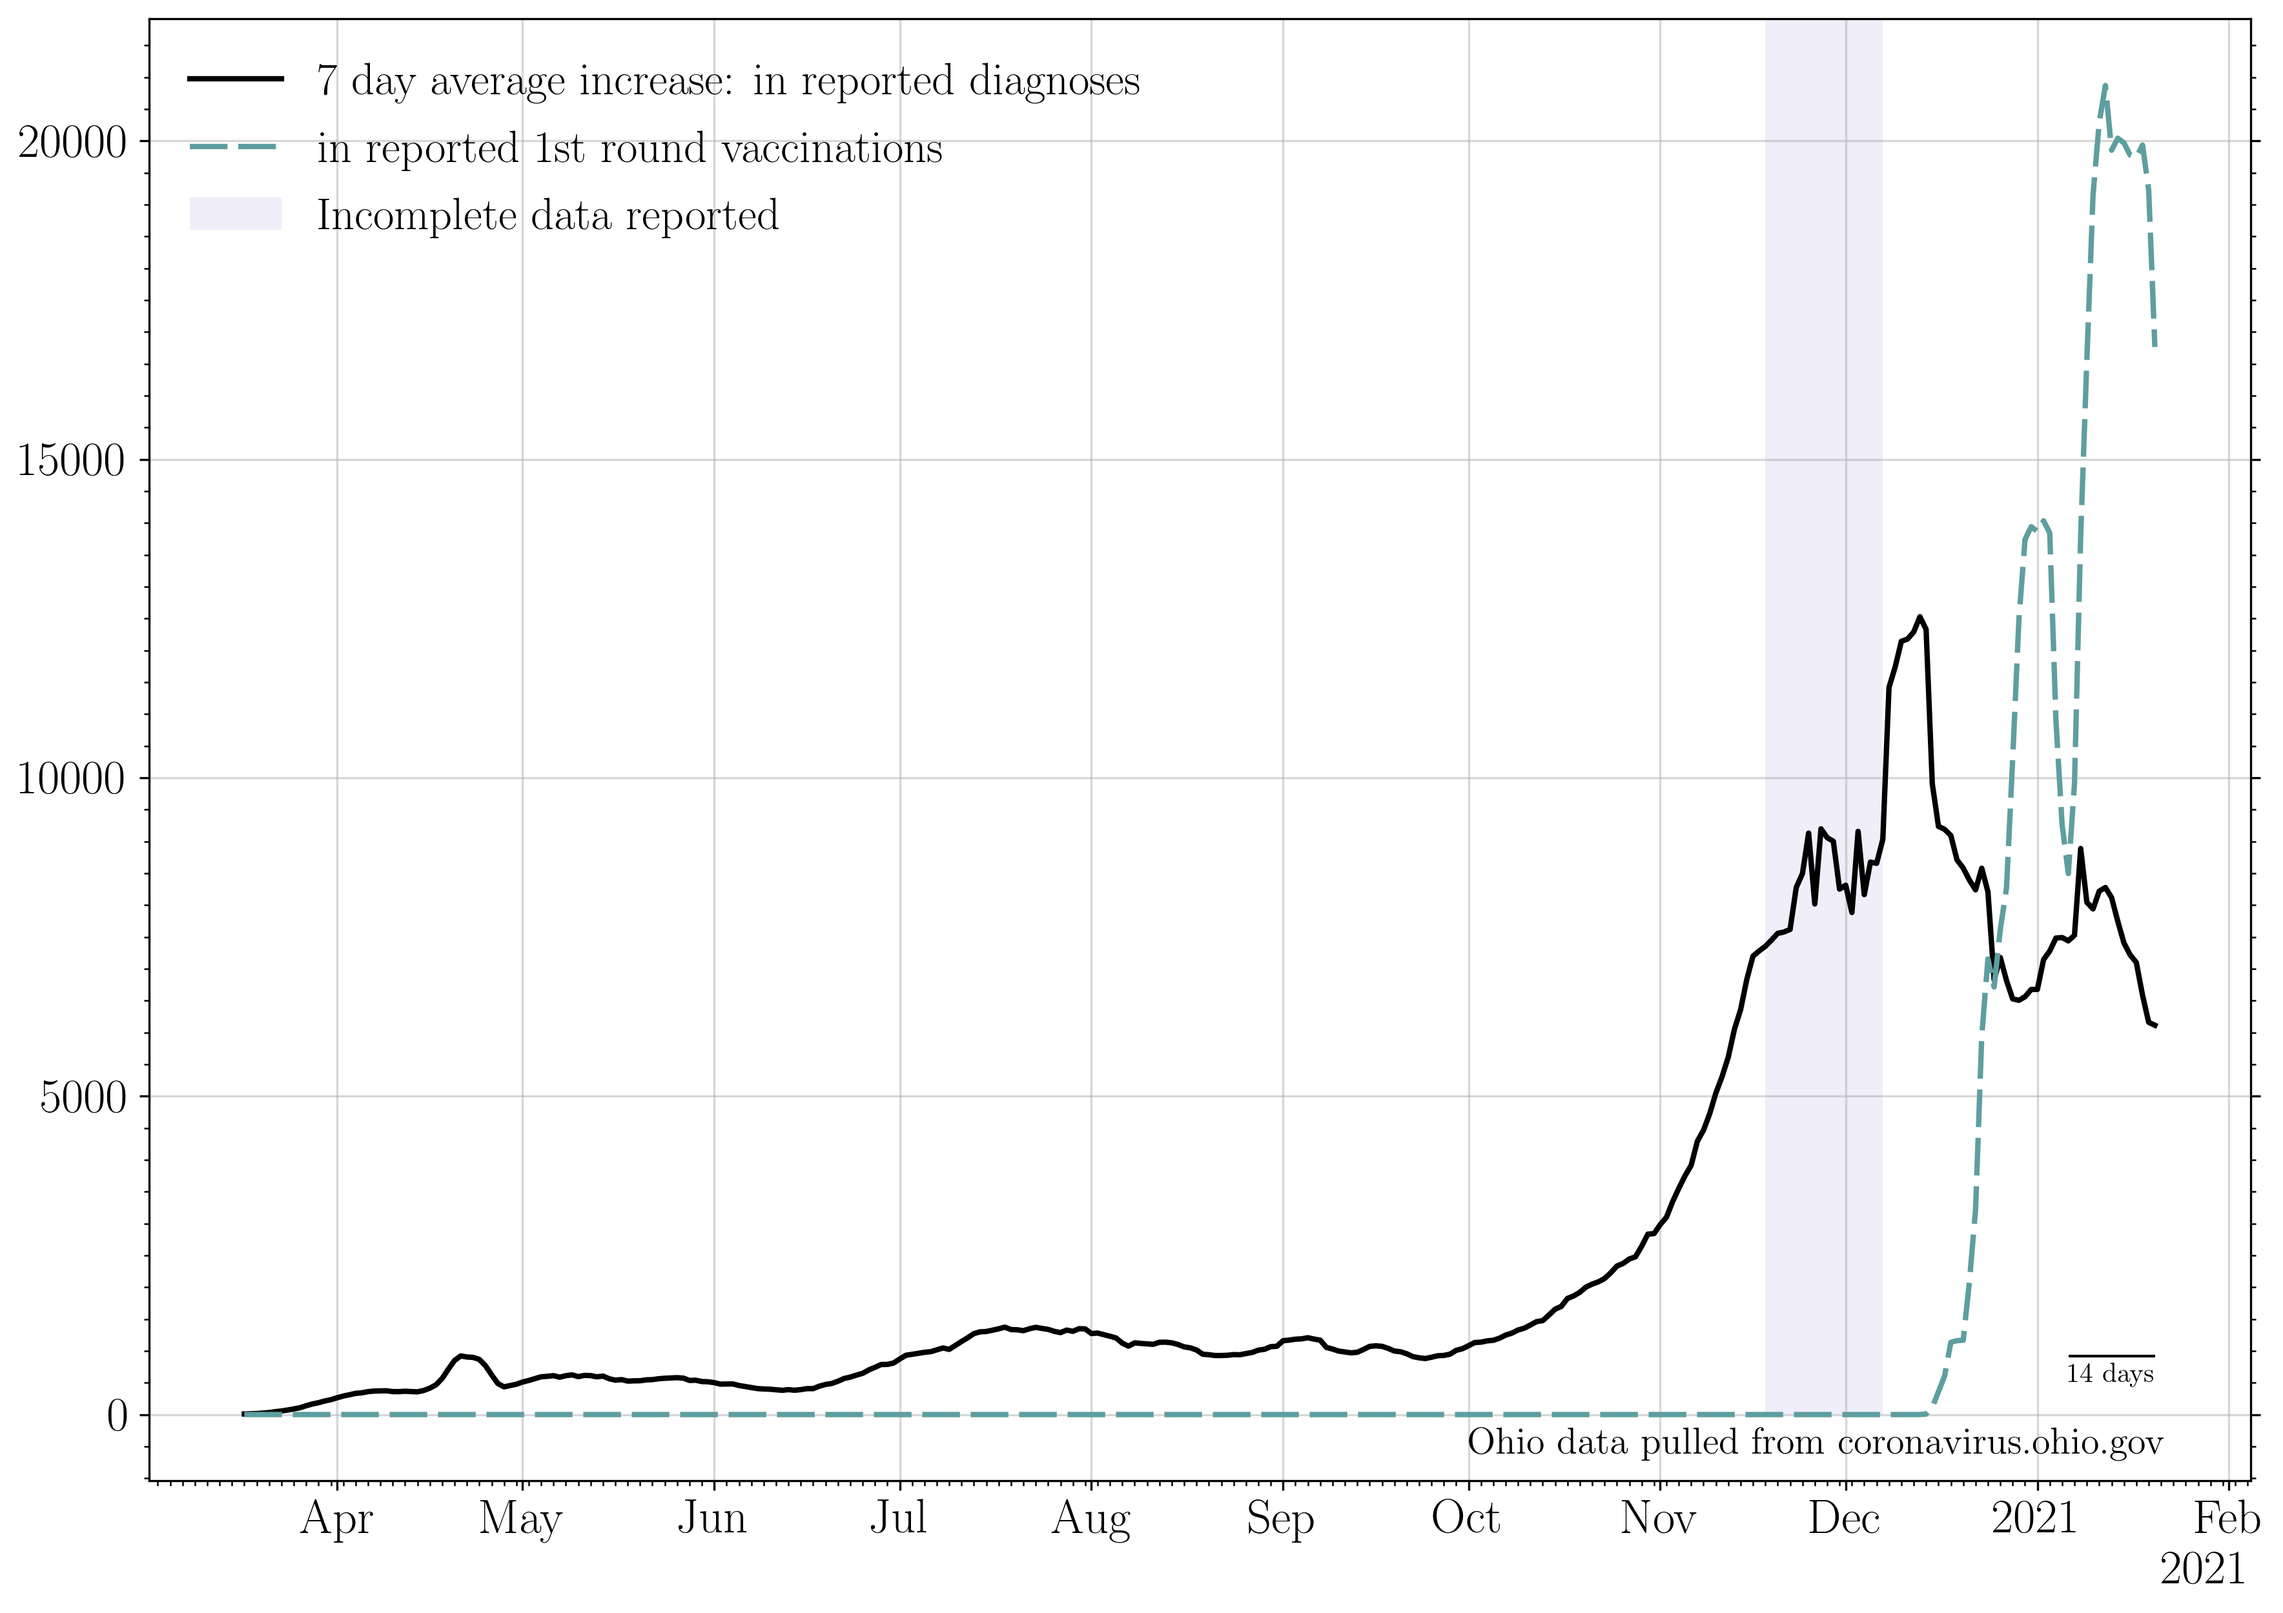
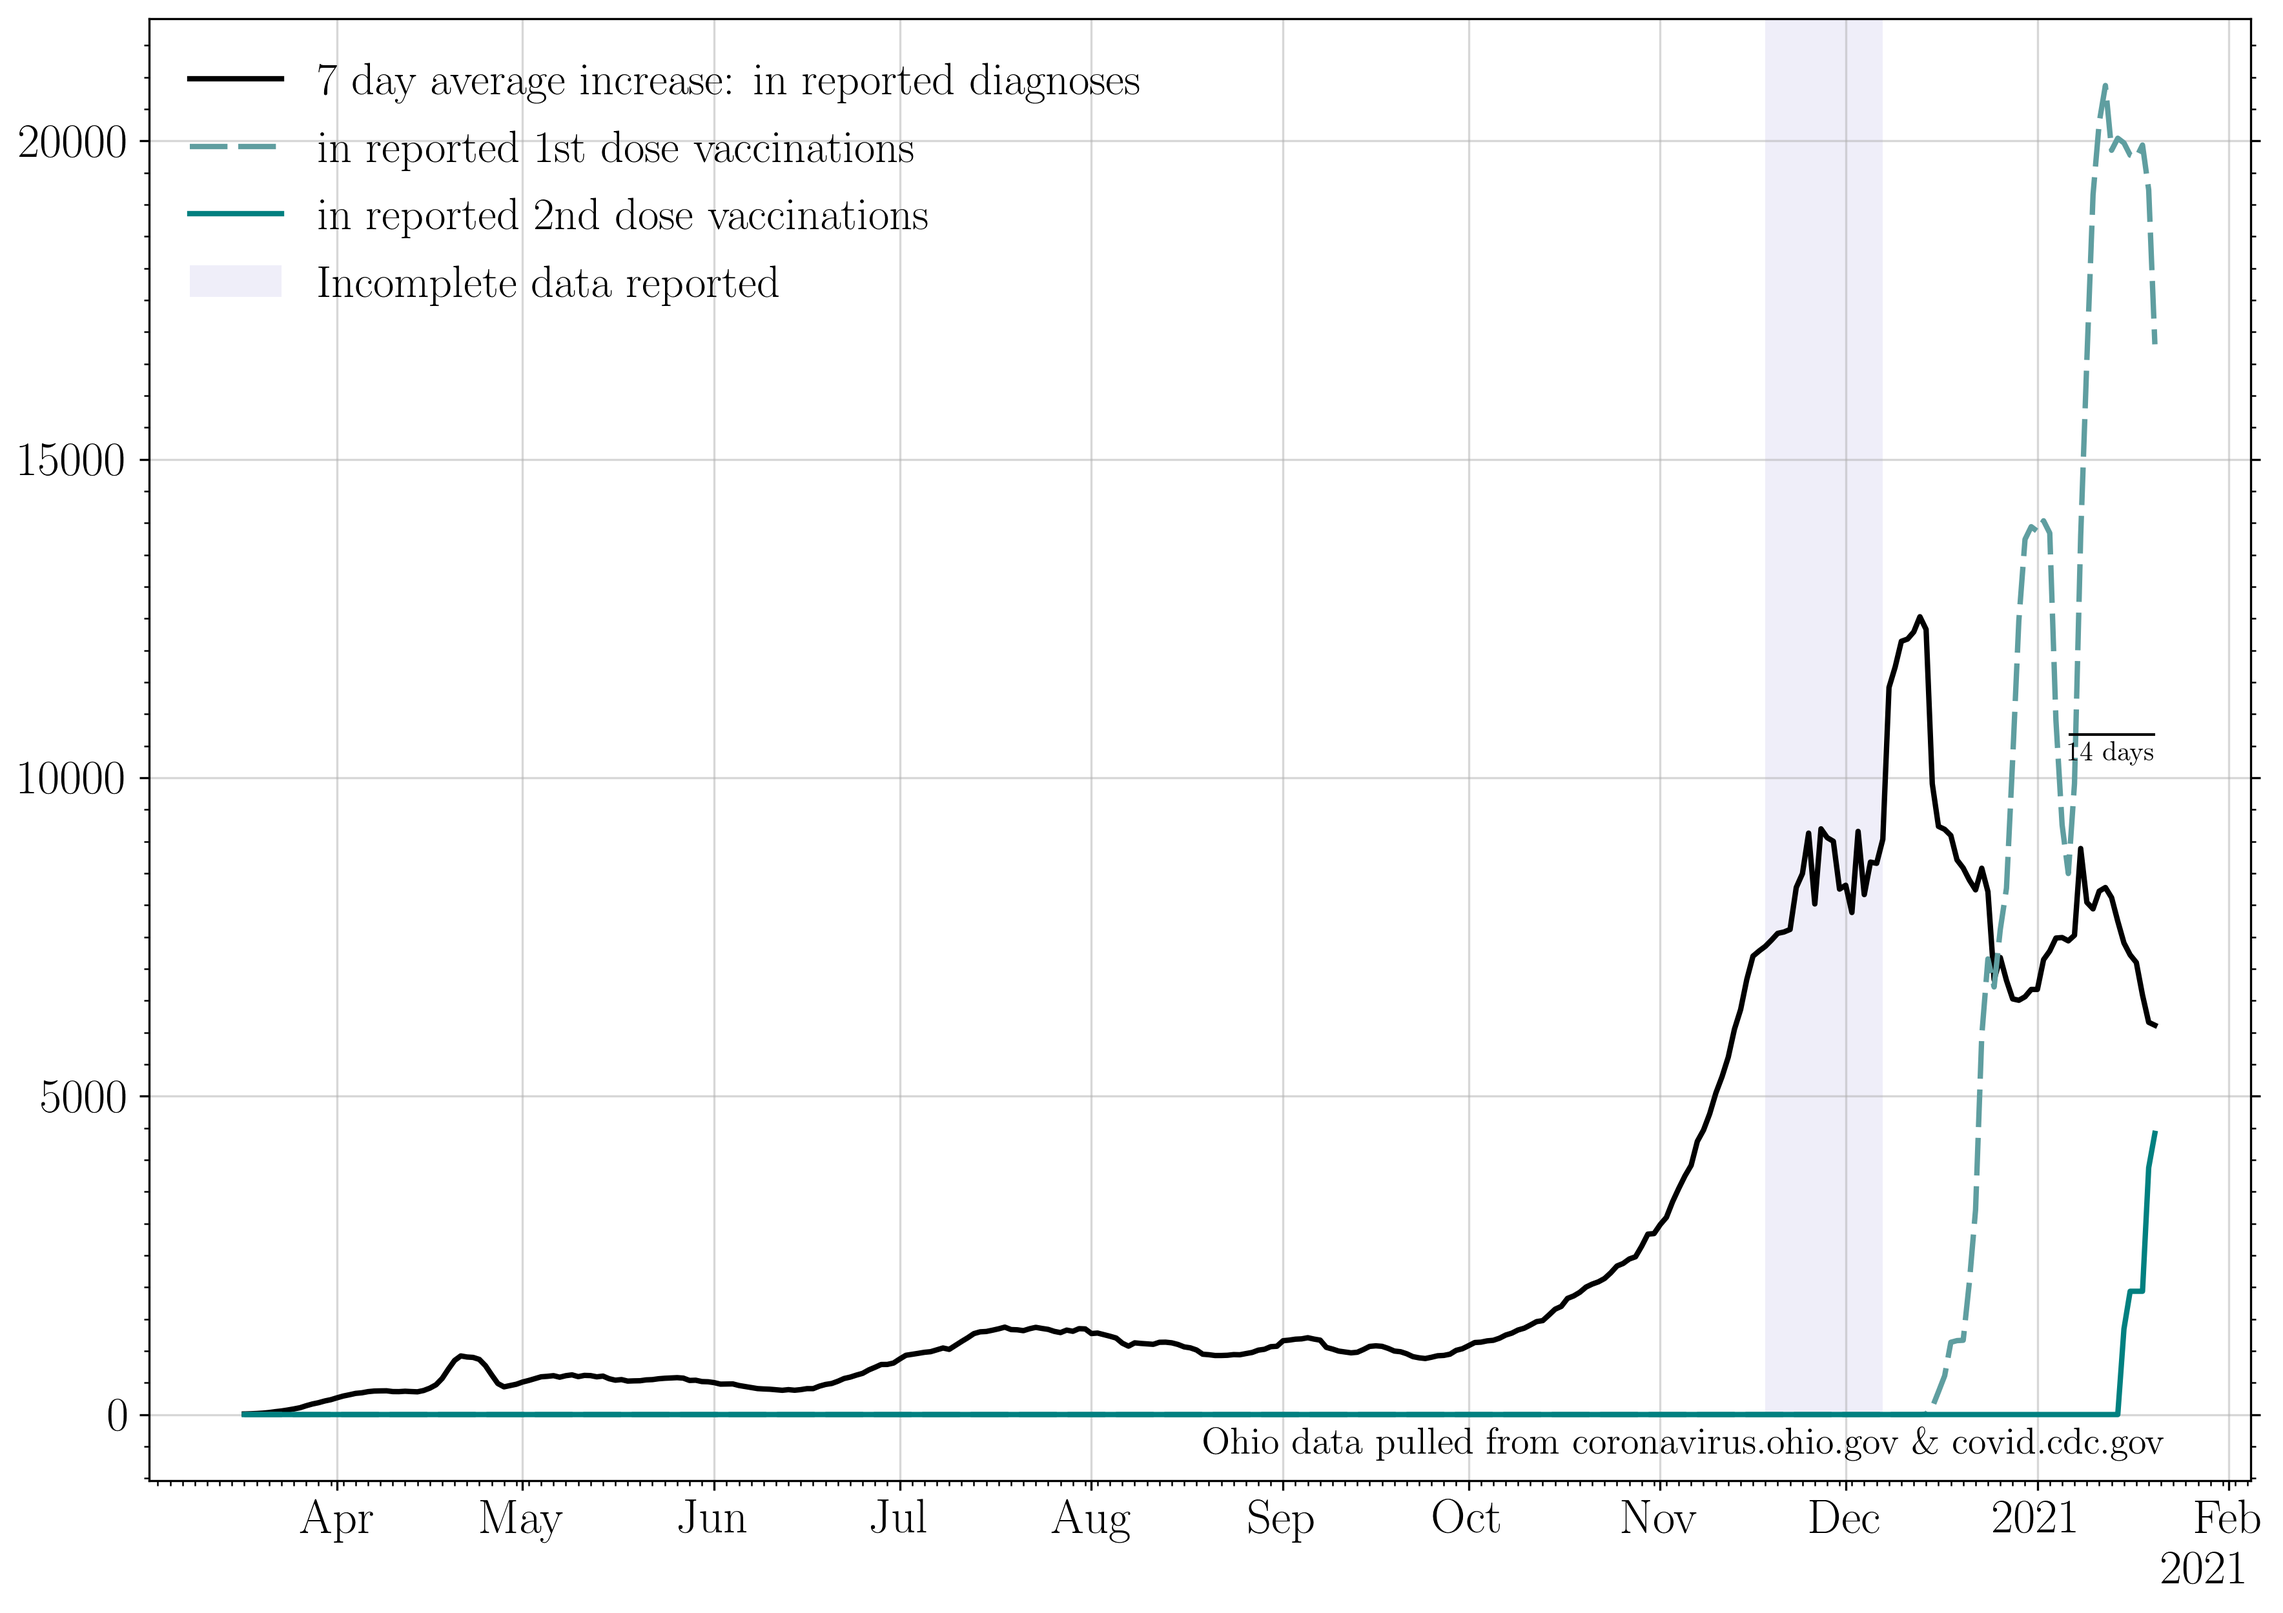
Updated with new 2nd dose vaccination data

Changed region(s): [[0.1244, 0.8115, 0.9333, 0.9052], [0.1555, 0.0624, 0.4044, 0.1873], [0.0933, 0.1248, 0.1244, 0.1561]]

diff --git a/index.md b/index.md
@@ -80,8 +80,8 @@ The cumulative number of first and second round vaccinations. If no new events w
 >The current total number of first round vaccinations is equivalent to 1 person out of every 26 in the state of Ohio having begun their vaccination sequence.
 >This is 3.9 percent of the population of Ohio.
 
->The current total number of second round vaccinations is equivalent to 1 person out of every 431 in the state of Ohio having completed their vaccination sequence.
->This is 0.23 percent of the population of Ohio.
+>The current total number of second round vaccinations is equivalent to 1 person out of every 378 in the state of Ohio having completed their vaccination sequence.
+>This is 0.26 percent of the population of Ohio.
 
 >It has not yet been 2 weeks since second dose administration. No one is fully protected by their vaccine yet.
 
